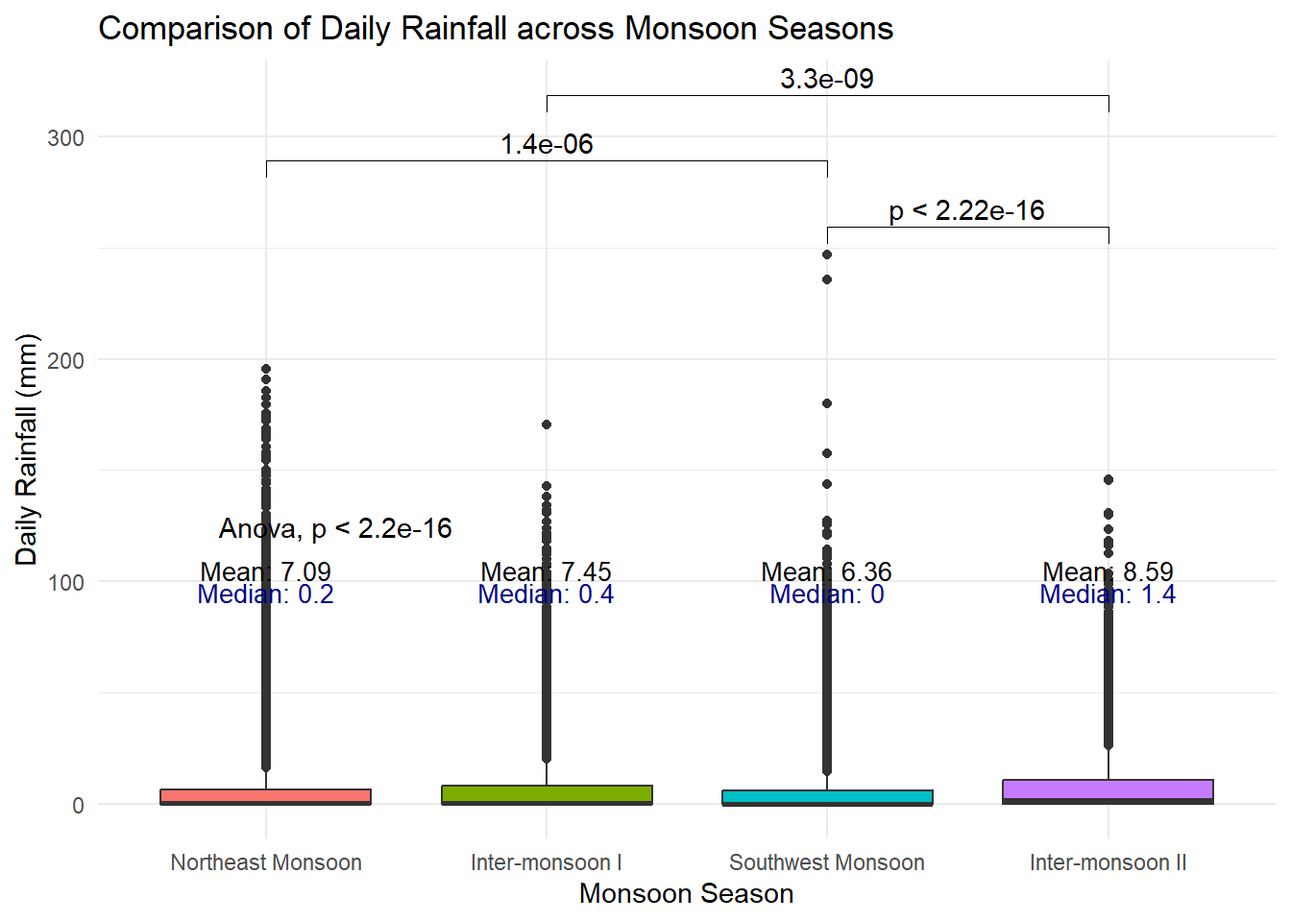
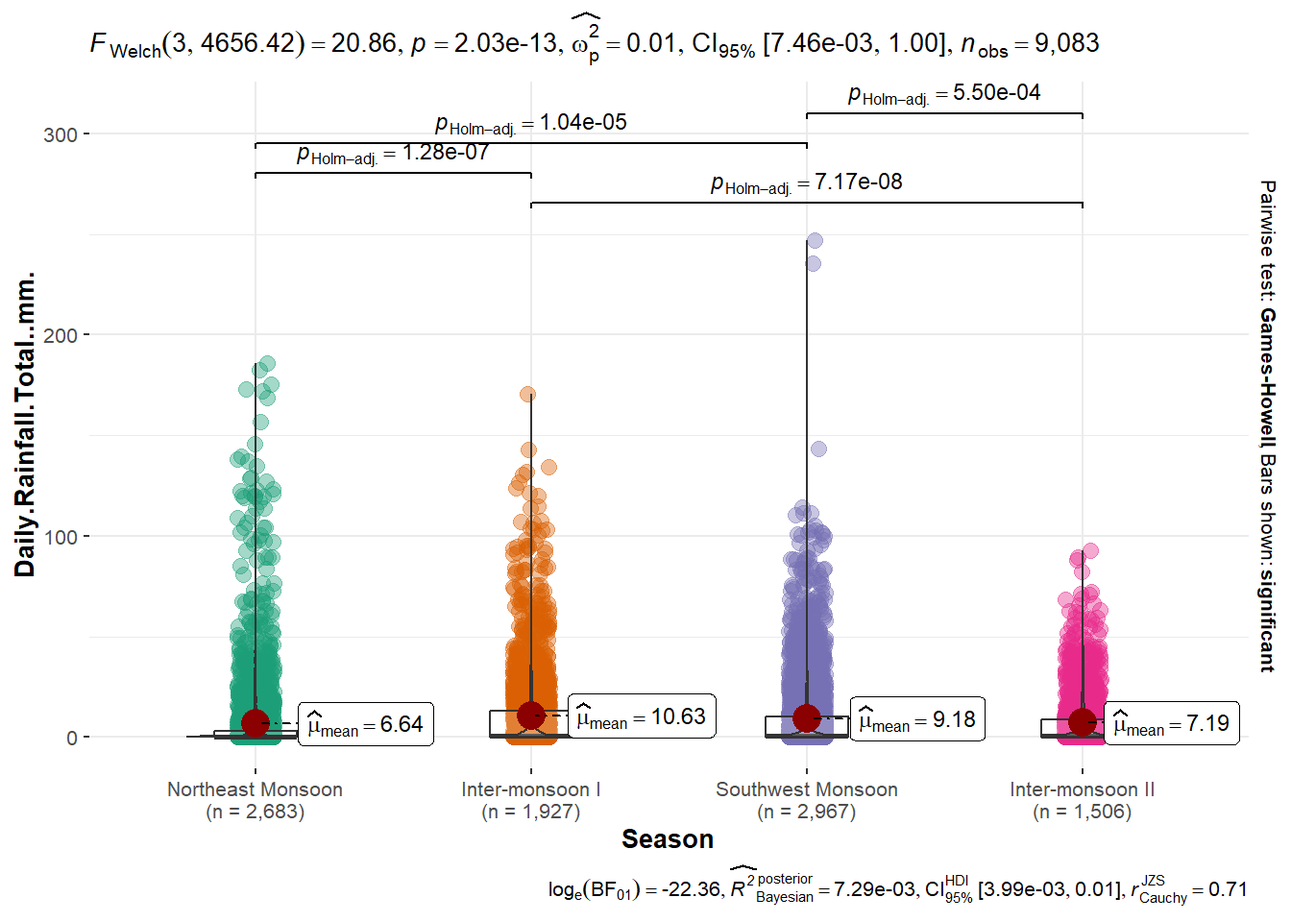
commit

diff --git a/_site/Take-home_Ex/Take-home_Ex03/Take-home_Ex03.html b/_site/Take-home_Ex/Take-home_Ex03/Take-home_Ex03.html
@@ -251,7 +251,7 @@ pre > code.sourceCode > span > a:first-child::before { text-decoration: underlin
  <span class="dropdown-text">In-class Exercise 8</span></a>
   </li>  
         <li>
-    <a class="dropdown-item" href="../../In-class_Ex/In-class_Ex08/In-class_Ex09.html">
+    <a class="dropdown-item" href="../../In-class_Ex/In-class_Ex09/In-class_Ex09.html">
  <span class="dropdown-text">In-class Exercise 9</span></a>
   </li>  
     </ul>
@@ -839,8 +839,26 @@ Inter-monsoon II-Southwest Monsoon   2.2288794  1.77807379  2.6796850 0.0000000<
 </div>
 </div>
 <div class="cell">
-<div class="sourceCode cell-code" id="cb40"><pre class="sourceCode r code-with-copy"><code class="sourceCode r"><span id="cb40-1"><a href="#cb40-1" aria-hidden="true" tabindex="-1"></a><span class="fu">library</span>(ggplot2)</span>
-<span id="cb40-2"><a href="#cb40-2" aria-hidden="true" tabindex="-1"></a><span class="fu">library</span>(ggpubr)</span></code><button title="Copy to Clipboard" class="code-copy-button"><i class="bi"></i></button></pre></div>
+<div class="sourceCode cell-code" id="cb40"><pre class="sourceCode r code-with-copy"><code class="sourceCode r"><span id="cb40-1"><a href="#cb40-1" aria-hidden="true" tabindex="-1"></a><span class="fu">ggbetweenstats</span>(</span>
+<span id="cb40-2"><a href="#cb40-2" aria-hidden="true" tabindex="-1"></a>  <span class="at">data =</span> weather_active <span class="sc">%&gt;%</span> <span class="fu">filter</span>(Year <span class="sc">==</span> <span class="dv">2021</span>),</span>
+<span id="cb40-3"><a href="#cb40-3" aria-hidden="true" tabindex="-1"></a>  <span class="at">x =</span> Season,</span>
+<span id="cb40-4"><a href="#cb40-4" aria-hidden="true" tabindex="-1"></a>  <span class="at">y =</span> Daily.Rainfall.Total..mm.,</span>
+<span id="cb40-5"><a href="#cb40-5" aria-hidden="true" tabindex="-1"></a>  <span class="at">type =</span> <span class="st">"p"</span>,</span>
+<span id="cb40-6"><a href="#cb40-6" aria-hidden="true" tabindex="-1"></a>  <span class="at">pairwise.comparisons =</span> <span class="cn">TRUE</span>,</span>
+<span id="cb40-7"><a href="#cb40-7" aria-hidden="true" tabindex="-1"></a>  <span class="at">pairwise.display =</span> <span class="st">"s"</span>,</span>
+<span id="cb40-8"><a href="#cb40-8" aria-hidden="true" tabindex="-1"></a>  <span class="at">output =</span> <span class="st">"plot"</span></span>
+<span id="cb40-9"><a href="#cb40-9" aria-hidden="true" tabindex="-1"></a>)</span></code><button title="Copy to Clipboard" class="code-copy-button"><i class="bi"></i></button></pre></div>
+<div class="cell-output-display">
+<div>
+<figure class="figure">
+<p><img src="Take-home_Ex03_files/figure-html/unnamed-chunk-19-1.png" class="img-fluid figure-img" width="672"></p>
+</figure>
+</div>
+</div>
+</div>
+<div class="cell">
+<div class="sourceCode cell-code" id="cb41"><pre class="sourceCode r code-with-copy"><code class="sourceCode r"><span id="cb41-1"><a href="#cb41-1" aria-hidden="true" tabindex="-1"></a><span class="fu">library</span>(ggplot2)</span>
+<span id="cb41-2"><a href="#cb41-2" aria-hidden="true" tabindex="-1"></a><span class="fu">library</span>(ggpubr)</span></code><button title="Copy to Clipboard" class="code-copy-button"><i class="bi"></i></button></pre></div>
 <div class="cell-output cell-output-stderr">
 <pre><code>Warning: package 'ggpubr' was built under R version 4.4.3</code></pre>
 </div>
@@ -853,55 +871,55 @@ Attaching package: 'ggpubr'</code></pre>
 
     gghistogram</code></pre>
 </div>
-<div class="sourceCode cell-code" id="cb44"><pre class="sourceCode r code-with-copy"><code class="sourceCode r"><span id="cb44-1"><a href="#cb44-1" aria-hidden="true" tabindex="-1"></a><span class="fu">library</span>(dplyr)</span>
-<span id="cb44-2"><a href="#cb44-2" aria-hidden="true" tabindex="-1"></a></span>
-<span id="cb44-3"><a href="#cb44-3" aria-hidden="true" tabindex="-1"></a>summary_stats <span class="ot">&lt;-</span> weather_active <span class="sc">%&gt;%</span></span>
-<span id="cb44-4"><a href="#cb44-4" aria-hidden="true" tabindex="-1"></a>  <span class="fu">group_by</span>(Season) <span class="sc">%&gt;%</span></span>
-<span id="cb44-5"><a href="#cb44-5" aria-hidden="true" tabindex="-1"></a>  <span class="fu">summarise</span>(</span>
-<span id="cb44-6"><a href="#cb44-6" aria-hidden="true" tabindex="-1"></a>    <span class="at">Mean_Rain =</span> <span class="fu">round</span>(<span class="fu">mean</span>(Daily.Rainfall.Total..mm., <span class="at">na.rm =</span> <span class="cn">TRUE</span>), <span class="dv">2</span>),</span>
-<span id="cb44-7"><a href="#cb44-7" aria-hidden="true" tabindex="-1"></a>    <span class="at">Median_Rain =</span> <span class="fu">round</span>(<span class="fu">median</span>(Daily.Rainfall.Total..mm., <span class="at">na.rm =</span> <span class="cn">TRUE</span>), <span class="dv">2</span>)</span>
-<span id="cb44-8"><a href="#cb44-8" aria-hidden="true" tabindex="-1"></a>  )</span>
-<span id="cb44-9"><a href="#cb44-9" aria-hidden="true" tabindex="-1"></a></span>
-<span id="cb44-10"><a href="#cb44-10" aria-hidden="true" tabindex="-1"></a></span>
-<span id="cb44-11"><a href="#cb44-11" aria-hidden="true" tabindex="-1"></a><span class="fu">ggplot</span>(weather_active, <span class="fu">aes</span>(<span class="at">x =</span> Season, <span class="at">y =</span> Daily.Rainfall.Total..mm., <span class="at">fill =</span> Season)) <span class="sc">+</span></span>
-<span id="cb44-12"><a href="#cb44-12" aria-hidden="true" tabindex="-1"></a>  <span class="fu">geom_boxplot</span>() <span class="sc">+</span></span>
-<span id="cb44-13"><a href="#cb44-13" aria-hidden="true" tabindex="-1"></a>  <span class="fu">stat_compare_means</span>(<span class="at">method =</span> <span class="st">"anova"</span>, <span class="at">label.y =</span> <span class="dv">120</span>) <span class="sc">+</span>  </span>
-<span id="cb44-14"><a href="#cb44-14" aria-hidden="true" tabindex="-1"></a>  <span class="fu">stat_compare_means</span>(</span>
-<span id="cb44-15"><a href="#cb44-15" aria-hidden="true" tabindex="-1"></a>    <span class="at">method =</span> <span class="st">"t.test"</span>,</span>
-<span id="cb44-16"><a href="#cb44-16" aria-hidden="true" tabindex="-1"></a>    <span class="at">comparisons =</span> <span class="fu">list</span>(</span>
-<span id="cb44-17"><a href="#cb44-17" aria-hidden="true" tabindex="-1"></a>      <span class="fu">c</span>(<span class="st">"Inter-monsoon II"</span>, <span class="st">"Southwest Monsoon"</span>),</span>
-<span id="cb44-18"><a href="#cb44-18" aria-hidden="true" tabindex="-1"></a>      <span class="fu">c</span>(<span class="st">"Southwest Monsoon"</span>, <span class="st">"Northeast Monsoon"</span>),</span>
-<span id="cb44-19"><a href="#cb44-19" aria-hidden="true" tabindex="-1"></a>      <span class="fu">c</span>(<span class="st">"Inter-monsoon II"</span>, <span class="st">"Inter-monsoon I"</span>)</span>
-<span id="cb44-20"><a href="#cb44-20" aria-hidden="true" tabindex="-1"></a>    ),</span>
-<span id="cb44-21"><a href="#cb44-21" aria-hidden="true" tabindex="-1"></a>    <span class="at">label =</span> <span class="st">"p.format"</span></span>
-<span id="cb44-22"><a href="#cb44-22" aria-hidden="true" tabindex="-1"></a>  ) <span class="sc">+</span></span>
-<span id="cb44-23"><a href="#cb44-23" aria-hidden="true" tabindex="-1"></a> </span>
-<span id="cb44-24"><a href="#cb44-24" aria-hidden="true" tabindex="-1"></a>  <span class="fu">geom_text</span>(</span>
-<span id="cb44-25"><a href="#cb44-25" aria-hidden="true" tabindex="-1"></a>    <span class="at">data =</span> summary_stats,</span>
-<span id="cb44-26"><a href="#cb44-26" aria-hidden="true" tabindex="-1"></a>    <span class="fu">aes</span>(<span class="at">x =</span> Season, <span class="at">y =</span> <span class="dv">105</span>, <span class="at">label =</span> <span class="fu">paste</span>(<span class="st">"Mean:"</span>, Mean_Rain)),</span>
-<span id="cb44-27"><a href="#cb44-27" aria-hidden="true" tabindex="-1"></a>    <span class="at">inherit.aes =</span> <span class="cn">FALSE</span>,</span>
-<span id="cb44-28"><a href="#cb44-28" aria-hidden="true" tabindex="-1"></a>    <span class="at">color =</span> <span class="st">"black"</span>,</span>
-<span id="cb44-29"><a href="#cb44-29" aria-hidden="true" tabindex="-1"></a>    <span class="at">size =</span> <span class="fl">3.5</span></span>
-<span id="cb44-30"><a href="#cb44-30" aria-hidden="true" tabindex="-1"></a>  ) <span class="sc">+</span></span>
-<span id="cb44-31"><a href="#cb44-31" aria-hidden="true" tabindex="-1"></a></span>
-<span id="cb44-32"><a href="#cb44-32" aria-hidden="true" tabindex="-1"></a>  <span class="fu">geom_text</span>(</span>
-<span id="cb44-33"><a href="#cb44-33" aria-hidden="true" tabindex="-1"></a>    <span class="at">data =</span> summary_stats,</span>
-<span id="cb44-34"><a href="#cb44-34" aria-hidden="true" tabindex="-1"></a>    <span class="fu">aes</span>(<span class="at">x =</span> Season, <span class="at">y =</span> <span class="dv">95</span>, <span class="at">label =</span> <span class="fu">paste</span>(<span class="st">"Median:"</span>, Median_Rain)),</span>
-<span id="cb44-35"><a href="#cb44-35" aria-hidden="true" tabindex="-1"></a>    <span class="at">inherit.aes =</span> <span class="cn">FALSE</span>,</span>
-<span id="cb44-36"><a href="#cb44-36" aria-hidden="true" tabindex="-1"></a>    <span class="at">color =</span> <span class="st">"darkblue"</span>,</span>
-<span id="cb44-37"><a href="#cb44-37" aria-hidden="true" tabindex="-1"></a>    <span class="at">size =</span> <span class="fl">3.5</span></span>
-<span id="cb44-38"><a href="#cb44-38" aria-hidden="true" tabindex="-1"></a>  ) <span class="sc">+</span></span>
-<span id="cb44-39"><a href="#cb44-39" aria-hidden="true" tabindex="-1"></a>  <span class="fu">labs</span>(</span>
-<span id="cb44-40"><a href="#cb44-40" aria-hidden="true" tabindex="-1"></a>    <span class="at">title =</span> <span class="st">"Comparison of Daily Rainfall across Monsoon Seasons"</span>,</span>
-<span id="cb44-41"><a href="#cb44-41" aria-hidden="true" tabindex="-1"></a>    <span class="at">y =</span> <span class="st">"Daily Rainfall (mm)"</span>,</span>
-<span id="cb44-42"><a href="#cb44-42" aria-hidden="true" tabindex="-1"></a>    <span class="at">x =</span> <span class="st">"Monsoon Season"</span></span>
-<span id="cb44-43"><a href="#cb44-43" aria-hidden="true" tabindex="-1"></a>  ) <span class="sc">+</span></span>
-<span id="cb44-44"><a href="#cb44-44" aria-hidden="true" tabindex="-1"></a>  <span class="fu">theme_minimal</span>() <span class="sc">+</span></span>
-<span id="cb44-45"><a href="#cb44-45" aria-hidden="true" tabindex="-1"></a>  <span class="fu">theme</span>(<span class="at">legend.position =</span> <span class="st">"none"</span>)</span></code><button title="Copy to Clipboard" class="code-copy-button"><i class="bi"></i></button></pre></div>
+<div class="sourceCode cell-code" id="cb45"><pre class="sourceCode r code-with-copy"><code class="sourceCode r"><span id="cb45-1"><a href="#cb45-1" aria-hidden="true" tabindex="-1"></a><span class="fu">library</span>(dplyr)</span>
+<span id="cb45-2"><a href="#cb45-2" aria-hidden="true" tabindex="-1"></a></span>
+<span id="cb45-3"><a href="#cb45-3" aria-hidden="true" tabindex="-1"></a>summary_stats <span class="ot">&lt;-</span> weather_active <span class="sc">%&gt;%</span></span>
+<span id="cb45-4"><a href="#cb45-4" aria-hidden="true" tabindex="-1"></a>  <span class="fu">group_by</span>(Season) <span class="sc">%&gt;%</span></span>
+<span id="cb45-5"><a href="#cb45-5" aria-hidden="true" tabindex="-1"></a>  <span class="fu">summarise</span>(</span>
+<span id="cb45-6"><a href="#cb45-6" aria-hidden="true" tabindex="-1"></a>    <span class="at">Mean_Rain =</span> <span class="fu">round</span>(<span class="fu">mean</span>(Daily.Rainfall.Total..mm., <span class="at">na.rm =</span> <span class="cn">TRUE</span>), <span class="dv">2</span>),</span>
+<span id="cb45-7"><a href="#cb45-7" aria-hidden="true" tabindex="-1"></a>    <span class="at">Median_Rain =</span> <span class="fu">round</span>(<span class="fu">median</span>(Daily.Rainfall.Total..mm., <span class="at">na.rm =</span> <span class="cn">TRUE</span>), <span class="dv">2</span>)</span>
+<span id="cb45-8"><a href="#cb45-8" aria-hidden="true" tabindex="-1"></a>  )</span>
+<span id="cb45-9"><a href="#cb45-9" aria-hidden="true" tabindex="-1"></a></span>
+<span id="cb45-10"><a href="#cb45-10" aria-hidden="true" tabindex="-1"></a></span>
+<span id="cb45-11"><a href="#cb45-11" aria-hidden="true" tabindex="-1"></a><span class="fu">ggplot</span>(weather_active, <span class="fu">aes</span>(<span class="at">x =</span> Season, <span class="at">y =</span> Daily.Rainfall.Total..mm., <span class="at">fill =</span> Season)) <span class="sc">+</span></span>
+<span id="cb45-12"><a href="#cb45-12" aria-hidden="true" tabindex="-1"></a>  <span class="fu">geom_boxplot</span>() <span class="sc">+</span></span>
+<span id="cb45-13"><a href="#cb45-13" aria-hidden="true" tabindex="-1"></a>  <span class="fu">stat_compare_means</span>(<span class="at">method =</span> <span class="st">"anova"</span>, <span class="at">label.y =</span> <span class="dv">120</span>) <span class="sc">+</span>  </span>
+<span id="cb45-14"><a href="#cb45-14" aria-hidden="true" tabindex="-1"></a>  <span class="fu">stat_compare_means</span>(</span>
+<span id="cb45-15"><a href="#cb45-15" aria-hidden="true" tabindex="-1"></a>    <span class="at">method =</span> <span class="st">"t.test"</span>,</span>
+<span id="cb45-16"><a href="#cb45-16" aria-hidden="true" tabindex="-1"></a>    <span class="at">comparisons =</span> <span class="fu">list</span>(</span>
+<span id="cb45-17"><a href="#cb45-17" aria-hidden="true" tabindex="-1"></a>      <span class="fu">c</span>(<span class="st">"Inter-monsoon II"</span>, <span class="st">"Southwest Monsoon"</span>),</span>
+<span id="cb45-18"><a href="#cb45-18" aria-hidden="true" tabindex="-1"></a>      <span class="fu">c</span>(<span class="st">"Southwest Monsoon"</span>, <span class="st">"Northeast Monsoon"</span>),</span>
+<span id="cb45-19"><a href="#cb45-19" aria-hidden="true" tabindex="-1"></a>      <span class="fu">c</span>(<span class="st">"Inter-monsoon II"</span>, <span class="st">"Inter-monsoon I"</span>)</span>
+<span id="cb45-20"><a href="#cb45-20" aria-hidden="true" tabindex="-1"></a>    ),</span>
+<span id="cb45-21"><a href="#cb45-21" aria-hidden="true" tabindex="-1"></a>    <span class="at">label =</span> <span class="st">"p.format"</span></span>
+<span id="cb45-22"><a href="#cb45-22" aria-hidden="true" tabindex="-1"></a>  ) <span class="sc">+</span></span>
+<span id="cb45-23"><a href="#cb45-23" aria-hidden="true" tabindex="-1"></a> </span>
+<span id="cb45-24"><a href="#cb45-24" aria-hidden="true" tabindex="-1"></a>  <span class="fu">geom_text</span>(</span>
+<span id="cb45-25"><a href="#cb45-25" aria-hidden="true" tabindex="-1"></a>    <span class="at">data =</span> summary_stats,</span>
+<span id="cb45-26"><a href="#cb45-26" aria-hidden="true" tabindex="-1"></a>    <span class="fu">aes</span>(<span class="at">x =</span> Season, <span class="at">y =</span> <span class="dv">105</span>, <span class="at">label =</span> <span class="fu">paste</span>(<span class="st">"Mean:"</span>, Mean_Rain)),</span>
+<span id="cb45-27"><a href="#cb45-27" aria-hidden="true" tabindex="-1"></a>    <span class="at">inherit.aes =</span> <span class="cn">FALSE</span>,</span>
+<span id="cb45-28"><a href="#cb45-28" aria-hidden="true" tabindex="-1"></a>    <span class="at">color =</span> <span class="st">"black"</span>,</span>
+<span id="cb45-29"><a href="#cb45-29" aria-hidden="true" tabindex="-1"></a>    <span class="at">size =</span> <span class="fl">3.5</span></span>
+<span id="cb45-30"><a href="#cb45-30" aria-hidden="true" tabindex="-1"></a>  ) <span class="sc">+</span></span>
+<span id="cb45-31"><a href="#cb45-31" aria-hidden="true" tabindex="-1"></a></span>
+<span id="cb45-32"><a href="#cb45-32" aria-hidden="true" tabindex="-1"></a>  <span class="fu">geom_text</span>(</span>
+<span id="cb45-33"><a href="#cb45-33" aria-hidden="true" tabindex="-1"></a>    <span class="at">data =</span> summary_stats,</span>
+<span id="cb45-34"><a href="#cb45-34" aria-hidden="true" tabindex="-1"></a>    <span class="fu">aes</span>(<span class="at">x =</span> Season, <span class="at">y =</span> <span class="dv">95</span>, <span class="at">label =</span> <span class="fu">paste</span>(<span class="st">"Median:"</span>, Median_Rain)),</span>
+<span id="cb45-35"><a href="#cb45-35" aria-hidden="true" tabindex="-1"></a>    <span class="at">inherit.aes =</span> <span class="cn">FALSE</span>,</span>
+<span id="cb45-36"><a href="#cb45-36" aria-hidden="true" tabindex="-1"></a>    <span class="at">color =</span> <span class="st">"darkblue"</span>,</span>
+<span id="cb45-37"><a href="#cb45-37" aria-hidden="true" tabindex="-1"></a>    <span class="at">size =</span> <span class="fl">3.5</span></span>
+<span id="cb45-38"><a href="#cb45-38" aria-hidden="true" tabindex="-1"></a>  ) <span class="sc">+</span></span>
+<span id="cb45-39"><a href="#cb45-39" aria-hidden="true" tabindex="-1"></a>  <span class="fu">labs</span>(</span>
+<span id="cb45-40"><a href="#cb45-40" aria-hidden="true" tabindex="-1"></a>    <span class="at">title =</span> <span class="st">"Comparison of Daily Rainfall across Monsoon Seasons"</span>,</span>
+<span id="cb45-41"><a href="#cb45-41" aria-hidden="true" tabindex="-1"></a>    <span class="at">y =</span> <span class="st">"Daily Rainfall (mm)"</span>,</span>
+<span id="cb45-42"><a href="#cb45-42" aria-hidden="true" tabindex="-1"></a>    <span class="at">x =</span> <span class="st">"Monsoon Season"</span></span>
+<span id="cb45-43"><a href="#cb45-43" aria-hidden="true" tabindex="-1"></a>  ) <span class="sc">+</span></span>
+<span id="cb45-44"><a href="#cb45-44" aria-hidden="true" tabindex="-1"></a>  <span class="fu">theme_minimal</span>() <span class="sc">+</span></span>
+<span id="cb45-45"><a href="#cb45-45" aria-hidden="true" tabindex="-1"></a>  <span class="fu">theme</span>(<span class="at">legend.position =</span> <span class="st">"none"</span>)</span></code><button title="Copy to Clipboard" class="code-copy-button"><i class="bi"></i></button></pre></div>
 <div class="cell-output-display">
 <div>
 <figure class="figure">
-<p><img src="Take-home_Ex03_files/figure-html/unnamed-chunk-19-1.png" class="img-fluid figure-img" width="672"></p>
+<p><img src="Take-home_Ex03_files/figure-html/unnamed-chunk-20-1.png" class="img-fluid figure-img" width="672"></p>
 </figure>
 </div>
 </div>
@@ -911,13 +929,13 @@ Attaching package: 'ggpubr'</code></pre>
 <h3 class="anchored" data-anchor-id="does-extreme-rainfall-significantly-increase-in-different-years">4.2 Does Extreme Rainfall significantly increase in different years</h3>
 <p>Observe whether extreme rainfall (such as days&gt;100mm) has increased in recent years.</p>
 <div class="cell">
-<div class="sourceCode cell-code" id="cb45"><pre class="sourceCode r code-with-copy"><code class="sourceCode r"><span id="cb45-1"><a href="#cb45-1" aria-hidden="true" tabindex="-1"></a>extreme_days_by_year <span class="ot">&lt;-</span> weather_active <span class="sc">%&gt;%</span></span>
-<span id="cb45-2"><a href="#cb45-2" aria-hidden="true" tabindex="-1"></a>  <span class="fu">filter</span>(Daily.Rainfall.Total..mm. <span class="sc">&gt;</span> <span class="dv">100</span>) <span class="sc">%&gt;%</span></span>
-<span id="cb45-3"><a href="#cb45-3" aria-hidden="true" tabindex="-1"></a>  <span class="fu">count</span>(Year)  </span>
-<span id="cb45-4"><a href="#cb45-4" aria-hidden="true" tabindex="-1"></a></span>
-<span id="cb45-5"><a href="#cb45-5" aria-hidden="true" tabindex="-1"></a>model_poisson <span class="ot">&lt;-</span> <span class="fu">glm</span>(n <span class="sc">~</span> Year, <span class="at">family =</span> <span class="st">"poisson"</span>, <span class="at">data =</span> extreme_days_by_year)</span>
-<span id="cb45-6"><a href="#cb45-6" aria-hidden="true" tabindex="-1"></a></span>
-<span id="cb45-7"><a href="#cb45-7" aria-hidden="true" tabindex="-1"></a><span class="fu">summary</span>(model_poisson)</span></code><button title="Copy to Clipboard" class="code-copy-button"><i class="bi"></i></button></pre></div>
+<div class="sourceCode cell-code" id="cb46"><pre class="sourceCode r code-with-copy"><code class="sourceCode r"><span id="cb46-1"><a href="#cb46-1" aria-hidden="true" tabindex="-1"></a>extreme_days_by_year <span class="ot">&lt;-</span> weather_active <span class="sc">%&gt;%</span></span>
+<span id="cb46-2"><a href="#cb46-2" aria-hidden="true" tabindex="-1"></a>  <span class="fu">filter</span>(Daily.Rainfall.Total..mm. <span class="sc">&gt;</span> <span class="dv">100</span>) <span class="sc">%&gt;%</span></span>
+<span id="cb46-3"><a href="#cb46-3" aria-hidden="true" tabindex="-1"></a>  <span class="fu">count</span>(Year)  </span>
+<span id="cb46-4"><a href="#cb46-4" aria-hidden="true" tabindex="-1"></a></span>
+<span id="cb46-5"><a href="#cb46-5" aria-hidden="true" tabindex="-1"></a>model_poisson <span class="ot">&lt;-</span> <span class="fu">glm</span>(n <span class="sc">~</span> Year, <span class="at">family =</span> <span class="st">"poisson"</span>, <span class="at">data =</span> extreme_days_by_year)</span>
+<span id="cb46-6"><a href="#cb46-6" aria-hidden="true" tabindex="-1"></a></span>
+<span id="cb46-7"><a href="#cb46-7" aria-hidden="true" tabindex="-1"></a><span class="fu">summary</span>(model_poisson)</span></code><button title="Copy to Clipboard" class="code-copy-button"><i class="bi"></i></button></pre></div>
 <div class="cell-output cell-output-stdout">
 <pre><code>
 Call:
@@ -940,20 +958,20 @@ Number of Fisher Scoring iterations: 5</code></pre>
 </div>
 </div>
 <div class="cell">
-<div class="sourceCode cell-code" id="cb47"><pre class="sourceCode r code-with-copy"><code class="sourceCode r"><span id="cb47-1"><a href="#cb47-1" aria-hidden="true" tabindex="-1"></a><span class="fu">ggplot</span>(extreme_days_by_year, <span class="fu">aes</span>(<span class="at">x =</span> Year, <span class="at">y =</span> n)) <span class="sc">+</span></span>
-<span id="cb47-2"><a href="#cb47-2" aria-hidden="true" tabindex="-1"></a>  <span class="fu">geom_point</span>(<span class="at">size =</span> <span class="dv">3</span>, <span class="at">color =</span> <span class="st">"darkred"</span>) <span class="sc">+</span></span>
-<span id="cb47-3"><a href="#cb47-3" aria-hidden="true" tabindex="-1"></a>  <span class="fu">geom_smooth</span>(<span class="at">method =</span> <span class="st">"glm"</span>, <span class="at">method.args =</span> <span class="fu">list</span>(<span class="at">family =</span> <span class="st">"poisson"</span>),</span>
-<span id="cb47-4"><a href="#cb47-4" aria-hidden="true" tabindex="-1"></a>              <span class="at">se =</span> <span class="cn">TRUE</span>, <span class="at">color =</span> <span class="st">"steelblue"</span>) <span class="sc">+</span></span>
-<span id="cb47-5"><a href="#cb47-5" aria-hidden="true" tabindex="-1"></a>  <span class="fu">labs</span>(<span class="at">title =</span> <span class="st">"Poisson Regression: Extreme Rainfall Days by Year"</span>,</span>
-<span id="cb47-6"><a href="#cb47-6" aria-hidden="true" tabindex="-1"></a>       <span class="at">x =</span> <span class="st">"Year"</span>, <span class="at">y =</span> <span class="st">"Extreme Rainfall Days"</span>) <span class="sc">+</span></span>
-<span id="cb47-7"><a href="#cb47-7" aria-hidden="true" tabindex="-1"></a>  <span class="fu">theme_minimal</span>()</span></code><button title="Copy to Clipboard" class="code-copy-button"><i class="bi"></i></button></pre></div>
+<div class="sourceCode cell-code" id="cb48"><pre class="sourceCode r code-with-copy"><code class="sourceCode r"><span id="cb48-1"><a href="#cb48-1" aria-hidden="true" tabindex="-1"></a><span class="fu">ggplot</span>(extreme_days_by_year, <span class="fu">aes</span>(<span class="at">x =</span> Year, <span class="at">y =</span> n)) <span class="sc">+</span></span>
+<span id="cb48-2"><a href="#cb48-2" aria-hidden="true" tabindex="-1"></a>  <span class="fu">geom_point</span>(<span class="at">size =</span> <span class="dv">3</span>, <span class="at">color =</span> <span class="st">"darkred"</span>) <span class="sc">+</span></span>
+<span id="cb48-3"><a href="#cb48-3" aria-hidden="true" tabindex="-1"></a>  <span class="fu">geom_smooth</span>(<span class="at">method =</span> <span class="st">"glm"</span>, <span class="at">method.args =</span> <span class="fu">list</span>(<span class="at">family =</span> <span class="st">"poisson"</span>),</span>
+<span id="cb48-4"><a href="#cb48-4" aria-hidden="true" tabindex="-1"></a>              <span class="at">se =</span> <span class="cn">TRUE</span>, <span class="at">color =</span> <span class="st">"steelblue"</span>) <span class="sc">+</span></span>
+<span id="cb48-5"><a href="#cb48-5" aria-hidden="true" tabindex="-1"></a>  <span class="fu">labs</span>(<span class="at">title =</span> <span class="st">"Poisson Regression: Extreme Rainfall Days by Year"</span>,</span>
+<span id="cb48-6"><a href="#cb48-6" aria-hidden="true" tabindex="-1"></a>       <span class="at">x =</span> <span class="st">"Year"</span>, <span class="at">y =</span> <span class="st">"Extreme Rainfall Days"</span>) <span class="sc">+</span></span>
+<span id="cb48-7"><a href="#cb48-7" aria-hidden="true" tabindex="-1"></a>  <span class="fu">theme_minimal</span>()</span></code><button title="Copy to Clipboard" class="code-copy-button"><i class="bi"></i></button></pre></div>
 <div class="cell-output cell-output-stderr">
 <pre><code>`geom_smooth()` using formula = 'y ~ x'</code></pre>
 </div>
 <div class="cell-output-display">
 <div>
 <figure class="figure">
-<p><img src="Take-home_Ex03_files/figure-html/unnamed-chunk-21-1.png" class="img-fluid figure-img" width="672"></p>
+<p><img src="Take-home_Ex03_files/figure-html/unnamed-chunk-22-1.png" class="img-fluid figure-img" width="672"></p>
 </figure>
 </div>
 </div>
@@ -965,18 +983,18 @@ This suggests that the frequency of extreme rainfall events has been increasing 
 <section id="regional-difference-analysis-whether-the-rainfall-in-the-southeast-northwest-and-northwest-is-different" class="level3">
 <h3 class="anchored" data-anchor-id="regional-difference-analysis-whether-the-rainfall-in-the-southeast-northwest-and-northwest-is-different">4.3 Regional difference analysis (whether the rainfall in the southeast, northwest, and northwest is different)</h3>
 <div class="cell">
-<div class="sourceCode cell-code" id="cb49"><pre class="sourceCode r code-with-copy"><code class="sourceCode r"><span id="cb49-1"><a href="#cb49-1" aria-hidden="true" tabindex="-1"></a>weather_active <span class="ot">&lt;-</span> weather_active <span class="sc">%&gt;%</span></span>
-<span id="cb49-2"><a href="#cb49-2" aria-hidden="true" tabindex="-1"></a>  <span class="fu">mutate</span>(<span class="at">MainRegion =</span> <span class="fu">case_when</span>(</span>
-<span id="cb49-3"><a href="#cb49-3" aria-hidden="true" tabindex="-1"></a>    Station <span class="sc">%in%</span> <span class="fu">c</span>(<span class="st">"Pasir Ris (West)"</span>, <span class="st">"Pasir Ris Central"</span>, <span class="st">"Simei"</span>, <span class="st">"Tanjong Katong"</span>, <span class="st">"Marine Parade"</span>) <span class="sc">~</span> <span class="st">"East"</span>, </span>
-<span id="cb49-4"><a href="#cb49-4" aria-hidden="true" tabindex="-1"></a>    Station <span class="sc">%in%</span> <span class="fu">c</span>(<span class="st">"Punggol"</span>, <span class="st">"Serangoon"</span>) <span class="sc">~</span> <span class="st">"Northeast"</span>,</span>
-<span id="cb49-5"><a href="#cb49-5" aria-hidden="true" tabindex="-1"></a>    Station <span class="sc">%in%</span> <span class="fu">c</span>(<span class="st">"Kranji Reservoir"</span>, <span class="st">"Mandai"</span>) <span class="sc">~</span> <span class="st">"North"</span>,</span>
-<span id="cb49-6"><a href="#cb49-6" aria-hidden="true" tabindex="-1"></a>    Station <span class="sc">%in%</span> <span class="fu">c</span>(<span class="st">"Jurong Pier"</span>, <span class="st">"Tuas"</span>, <span class="st">"Bukit Panjang"</span>, <span class="st">"Choa Chu Kang (Central)"</span>, <span class="st">"Lim Chu Kang"</span>) <span class="sc">~</span> <span class="st">"West"</span>,</span>
-<span id="cb49-7"><a href="#cb49-7" aria-hidden="true" tabindex="-1"></a>    <span class="cn">TRUE</span> <span class="sc">~</span> <span class="st">"Central"</span></span>
-<span id="cb49-8"><a href="#cb49-8" aria-hidden="true" tabindex="-1"></a>  ))</span></code><button title="Copy to Clipboard" class="code-copy-button"><i class="bi"></i></button></pre></div>
+<div class="sourceCode cell-code" id="cb50"><pre class="sourceCode r code-with-copy"><code class="sourceCode r"><span id="cb50-1"><a href="#cb50-1" aria-hidden="true" tabindex="-1"></a>weather_active <span class="ot">&lt;-</span> weather_active <span class="sc">%&gt;%</span></span>
+<span id="cb50-2"><a href="#cb50-2" aria-hidden="true" tabindex="-1"></a>  <span class="fu">mutate</span>(<span class="at">MainRegion =</span> <span class="fu">case_when</span>(</span>
+<span id="cb50-3"><a href="#cb50-3" aria-hidden="true" tabindex="-1"></a>    Station <span class="sc">%in%</span> <span class="fu">c</span>(<span class="st">"Pasir Ris (West)"</span>, <span class="st">"Pasir Ris Central"</span>, <span class="st">"Simei"</span>, <span class="st">"Tanjong Katong"</span>, <span class="st">"Marine Parade"</span>) <span class="sc">~</span> <span class="st">"East"</span>, </span>
+<span id="cb50-4"><a href="#cb50-4" aria-hidden="true" tabindex="-1"></a>    Station <span class="sc">%in%</span> <span class="fu">c</span>(<span class="st">"Punggol"</span>, <span class="st">"Serangoon"</span>) <span class="sc">~</span> <span class="st">"Northeast"</span>,</span>
+<span id="cb50-5"><a href="#cb50-5" aria-hidden="true" tabindex="-1"></a>    Station <span class="sc">%in%</span> <span class="fu">c</span>(<span class="st">"Kranji Reservoir"</span>, <span class="st">"Mandai"</span>) <span class="sc">~</span> <span class="st">"North"</span>,</span>
+<span id="cb50-6"><a href="#cb50-6" aria-hidden="true" tabindex="-1"></a>    Station <span class="sc">%in%</span> <span class="fu">c</span>(<span class="st">"Jurong Pier"</span>, <span class="st">"Tuas"</span>, <span class="st">"Bukit Panjang"</span>, <span class="st">"Choa Chu Kang (Central)"</span>, <span class="st">"Lim Chu Kang"</span>) <span class="sc">~</span> <span class="st">"West"</span>,</span>
+<span id="cb50-7"><a href="#cb50-7" aria-hidden="true" tabindex="-1"></a>    <span class="cn">TRUE</span> <span class="sc">~</span> <span class="st">"Central"</span></span>
+<span id="cb50-8"><a href="#cb50-8" aria-hidden="true" tabindex="-1"></a>  ))</span></code><button title="Copy to Clipboard" class="code-copy-button"><i class="bi"></i></button></pre></div>
 </div>
 <div class="cell">
-<div class="sourceCode cell-code" id="cb50"><pre class="sourceCode r code-with-copy"><code class="sourceCode r"><span id="cb50-1"><a href="#cb50-1" aria-hidden="true" tabindex="-1"></a>anova_mainregion <span class="ot">&lt;-</span> <span class="fu">aov</span>(Daily.Rainfall.Total..mm. <span class="sc">~</span> MainRegion, <span class="at">data =</span> weather_active)</span>
-<span id="cb50-2"><a href="#cb50-2" aria-hidden="true" tabindex="-1"></a><span class="fu">summary</span>(anova_mainregion)</span></code><button title="Copy to Clipboard" class="code-copy-button"><i class="bi"></i></button></pre></div>
+<div class="sourceCode cell-code" id="cb51"><pre class="sourceCode r code-with-copy"><code class="sourceCode r"><span id="cb51-1"><a href="#cb51-1" aria-hidden="true" tabindex="-1"></a>anova_mainregion <span class="ot">&lt;-</span> <span class="fu">aov</span>(Daily.Rainfall.Total..mm. <span class="sc">~</span> MainRegion, <span class="at">data =</span> weather_active)</span>
+<span id="cb51-2"><a href="#cb51-2" aria-hidden="true" tabindex="-1"></a><span class="fu">summary</span>(anova_mainregion)</span></code><button title="Copy to Clipboard" class="code-copy-button"><i class="bi"></i></button></pre></div>
 <div class="cell-output cell-output-stdout">
 <pre><code>               Df   Sum Sq Mean Sq F value Pr(&gt;F)    
 MainRegion      4    20792    5198   23.41 &lt;2e-16 ***
@@ -984,7 +1002,7 @@ Residuals   64848 14399494     222
 ---
 Signif. codes:  0 '***' 0.001 '**' 0.01 '*' 0.05 '.' 0.1 ' ' 1</code></pre>
 </div>
-<div class="sourceCode cell-code" id="cb52"><pre class="sourceCode r code-with-copy"><code class="sourceCode r"><span id="cb52-1"><a href="#cb52-1" aria-hidden="true" tabindex="-1"></a><span class="fu">TukeyHSD</span>(anova_mainregion)</span></code><button title="Copy to Clipboard" class="code-copy-button"><i class="bi"></i></button></pre></div>
+<div class="sourceCode cell-code" id="cb53"><pre class="sourceCode r code-with-copy"><code class="sourceCode r"><span id="cb53-1"><a href="#cb53-1" aria-hidden="true" tabindex="-1"></a><span class="fu">TukeyHSD</span>(anova_mainregion)</span></code><button title="Copy to Clipboard" class="code-copy-button"><i class="bi"></i></button></pre></div>
 <div class="cell-output cell-output-stdout">
 <pre><code>  Tukey multiple comparisons of means
     95% family-wise confidence level
@@ -1006,15 +1024,15 @@ West-Northeast     1.8934478  1.0896873  2.6972084 0.0000000</code></pre>
 </div>
 </div>
 <div class="cell">
-<div class="sourceCode cell-code" id="cb54"><pre class="sourceCode r code-with-copy"><code class="sourceCode r"><span id="cb54-1"><a href="#cb54-1" aria-hidden="true" tabindex="-1"></a><span class="fu">ggplot</span>(weather_active, <span class="fu">aes</span>(<span class="at">x =</span> MainRegion, <span class="at">y =</span> Daily.Rainfall.Total..mm., <span class="at">fill =</span> MainRegion)) <span class="sc">+</span></span>
-<span id="cb54-2"><a href="#cb54-2" aria-hidden="true" tabindex="-1"></a>  <span class="fu">geom_boxplot</span>() <span class="sc">+</span></span>
-<span id="cb54-3"><a href="#cb54-3" aria-hidden="true" tabindex="-1"></a>  <span class="fu">stat_compare_means</span>(<span class="at">method =</span> <span class="st">"anova"</span>, <span class="at">label.y =</span> <span class="dv">120</span>) <span class="sc">+</span></span>
-<span id="cb54-4"><a href="#cb54-4" aria-hidden="true" tabindex="-1"></a>  <span class="fu">labs</span>(<span class="at">title =</span> <span class="st">"Daily Rainfall by Region"</span>, <span class="at">y =</span> <span class="st">"Rainfall (mm)"</span>, <span class="at">x =</span> <span class="st">"Region"</span>) <span class="sc">+</span></span>
-<span id="cb54-5"><a href="#cb54-5" aria-hidden="true" tabindex="-1"></a>  <span class="fu">theme_minimal</span>()</span></code><button title="Copy to Clipboard" class="code-copy-button"><i class="bi"></i></button></pre></div>
+<div class="sourceCode cell-code" id="cb55"><pre class="sourceCode r code-with-copy"><code class="sourceCode r"><span id="cb55-1"><a href="#cb55-1" aria-hidden="true" tabindex="-1"></a><span class="fu">ggplot</span>(weather_active, <span class="fu">aes</span>(<span class="at">x =</span> MainRegion, <span class="at">y =</span> Daily.Rainfall.Total..mm., <span class="at">fill =</span> MainRegion)) <span class="sc">+</span></span>
+<span id="cb55-2"><a href="#cb55-2" aria-hidden="true" tabindex="-1"></a>  <span class="fu">geom_boxplot</span>() <span class="sc">+</span></span>
+<span id="cb55-3"><a href="#cb55-3" aria-hidden="true" tabindex="-1"></a>  <span class="fu">stat_compare_means</span>(<span class="at">method =</span> <span class="st">"anova"</span>, <span class="at">label.y =</span> <span class="dv">120</span>) <span class="sc">+</span></span>
+<span id="cb55-4"><a href="#cb55-4" aria-hidden="true" tabindex="-1"></a>  <span class="fu">labs</span>(<span class="at">title =</span> <span class="st">"Daily Rainfall by Region"</span>, <span class="at">y =</span> <span class="st">"Rainfall (mm)"</span>, <span class="at">x =</span> <span class="st">"Region"</span>) <span class="sc">+</span></span>
+<span id="cb55-5"><a href="#cb55-5" aria-hidden="true" tabindex="-1"></a>  <span class="fu">theme_minimal</span>()</span></code><button title="Copy to Clipboard" class="code-copy-button"><i class="bi"></i></button></pre></div>
 <div class="cell-output-display">
 <div>
 <figure class="figure">
-<p><img src="Take-home_Ex03_files/figure-html/unnamed-chunk-24-1.png" class="img-fluid figure-img" width="672"></p>
+<p><img src="Take-home_Ex03_files/figure-html/unnamed-chunk-25-1.png" class="img-fluid figure-img" width="672"></p>
 </figure>
 </div>
 </div>
@@ -1024,8 +1042,8 @@ West-Northeast     1.8934478  1.0896873  2.6972084 0.0000000</code></pre>
 <h3 class="anchored" data-anchor-id="linear-regression-rainfallmonth">4.4 Linear Regression (Rainfall~Month)</h3>
 <p>Observe the overall trend of month vs rainfall</p>
 <div class="cell">
-<div class="sourceCode cell-code" id="cb55"><pre class="sourceCode r code-with-copy"><code class="sourceCode r"><span id="cb55-1"><a href="#cb55-1" aria-hidden="true" tabindex="-1"></a>lm_month <span class="ot">&lt;-</span> <span class="fu">lm</span>(Daily.Rainfall.Total..mm. <span class="sc">~</span> Month, <span class="at">data =</span> weather_active)</span>
-<span id="cb55-2"><a href="#cb55-2" aria-hidden="true" tabindex="-1"></a><span class="fu">summary</span>(lm_month)</span></code><button title="Copy to Clipboard" class="code-copy-button"><i class="bi"></i></button></pre></div>
+<div class="sourceCode cell-code" id="cb56"><pre class="sourceCode r code-with-copy"><code class="sourceCode r"><span id="cb56-1"><a href="#cb56-1" aria-hidden="true" tabindex="-1"></a>lm_month <span class="ot">&lt;-</span> <span class="fu">lm</span>(Daily.Rainfall.Total..mm. <span class="sc">~</span> Month, <span class="at">data =</span> weather_active)</span>
+<span id="cb56-2"><a href="#cb56-2" aria-hidden="true" tabindex="-1"></a><span class="fu">summary</span>(lm_month)</span></code><button title="Copy to Clipboard" class="code-copy-button"><i class="bi"></i></button></pre></div>
 <div class="cell-output cell-output-stdout">
 <pre><code>
 Call:
@@ -1048,21 +1066,21 @@ F-statistic:  68.9 on 1 and 64851 DF,  p-value: &lt; 2.2e-16</code></pre>
 </div>
 </div>
 <div class="cell">
-<div class="sourceCode cell-code" id="cb57"><pre class="sourceCode r code-with-copy"><code class="sourceCode r"><span id="cb57-1"><a href="#cb57-1" aria-hidden="true" tabindex="-1"></a><span class="fu">library</span>(ggplot2)</span>
-<span id="cb57-2"><a href="#cb57-2" aria-hidden="true" tabindex="-1"></a></span>
-<span id="cb57-3"><a href="#cb57-3" aria-hidden="true" tabindex="-1"></a><span class="fu">ggplot</span>(weather_active, <span class="fu">aes</span>(<span class="at">x =</span> Month, <span class="at">y =</span> Daily.Rainfall.Total..mm.)) <span class="sc">+</span></span>
-<span id="cb57-4"><a href="#cb57-4" aria-hidden="true" tabindex="-1"></a>  <span class="fu">geom_jitter</span>(<span class="at">alpha =</span> <span class="fl">0.2</span>, <span class="at">color =</span> <span class="st">"lightblue"</span>) <span class="sc">+</span></span>
-<span id="cb57-5"><a href="#cb57-5" aria-hidden="true" tabindex="-1"></a>  <span class="fu">geom_smooth</span>(<span class="at">method =</span> <span class="st">"lm"</span>, <span class="at">se =</span> <span class="cn">TRUE</span>, <span class="at">color =</span> <span class="st">"darkblue"</span>) <span class="sc">+</span></span>
-<span id="cb57-6"><a href="#cb57-6" aria-hidden="true" tabindex="-1"></a>  <span class="fu">labs</span>(<span class="at">title =</span> <span class="st">"Linear Trend of Rainfall by Month"</span>,</span>
-<span id="cb57-7"><a href="#cb57-7" aria-hidden="true" tabindex="-1"></a>       <span class="at">x =</span> <span class="st">"Month"</span>, <span class="at">y =</span> <span class="st">"Daily Rainfall (mm)"</span>) <span class="sc">+</span></span>
-<span id="cb57-8"><a href="#cb57-8" aria-hidden="true" tabindex="-1"></a>  <span class="fu">theme_minimal</span>()</span></code><button title="Copy to Clipboard" class="code-copy-button"><i class="bi"></i></button></pre></div>
+<div class="sourceCode cell-code" id="cb58"><pre class="sourceCode r code-with-copy"><code class="sourceCode r"><span id="cb58-1"><a href="#cb58-1" aria-hidden="true" tabindex="-1"></a><span class="fu">library</span>(ggplot2)</span>
+<span id="cb58-2"><a href="#cb58-2" aria-hidden="true" tabindex="-1"></a></span>
+<span id="cb58-3"><a href="#cb58-3" aria-hidden="true" tabindex="-1"></a><span class="fu">ggplot</span>(weather_active, <span class="fu">aes</span>(<span class="at">x =</span> Month, <span class="at">y =</span> Daily.Rainfall.Total..mm.)) <span class="sc">+</span></span>
+<span id="cb58-4"><a href="#cb58-4" aria-hidden="true" tabindex="-1"></a>  <span class="fu">geom_jitter</span>(<span class="at">alpha =</span> <span class="fl">0.2</span>, <span class="at">color =</span> <span class="st">"lightblue"</span>) <span class="sc">+</span></span>
+<span id="cb58-5"><a href="#cb58-5" aria-hidden="true" tabindex="-1"></a>  <span class="fu">geom_smooth</span>(<span class="at">method =</span> <span class="st">"lm"</span>, <span class="at">se =</span> <span class="cn">TRUE</span>, <span class="at">color =</span> <span class="st">"darkblue"</span>) <span class="sc">+</span></span>
+<span id="cb58-6"><a href="#cb58-6" aria-hidden="true" tabindex="-1"></a>  <span class="fu">labs</span>(<span class="at">title =</span> <span class="st">"Linear Trend of Rainfall by Month"</span>,</span>
+<span id="cb58-7"><a href="#cb58-7" aria-hidden="true" tabindex="-1"></a>       <span class="at">x =</span> <span class="st">"Month"</span>, <span class="at">y =</span> <span class="st">"Daily Rainfall (mm)"</span>) <span class="sc">+</span></span>
+<span id="cb58-8"><a href="#cb58-8" aria-hidden="true" tabindex="-1"></a>  <span class="fu">theme_minimal</span>()</span></code><button title="Copy to Clipboard" class="code-copy-button"><i class="bi"></i></button></pre></div>
 <div class="cell-output cell-output-stderr">
 <pre><code>`geom_smooth()` using formula = 'y ~ x'</code></pre>
 </div>
 <div class="cell-output-display">
 <div>
 <figure class="figure">
-<p><img src="Take-home_Ex03_files/figure-html/unnamed-chunk-26-1.png" class="img-fluid figure-img" width="672"></p>
+<p><img src="Take-home_Ex03_files/figure-html/unnamed-chunk-27-1.png" class="img-fluid figure-img" width="672"></p>
 </figure>
 </div>
 </div>
